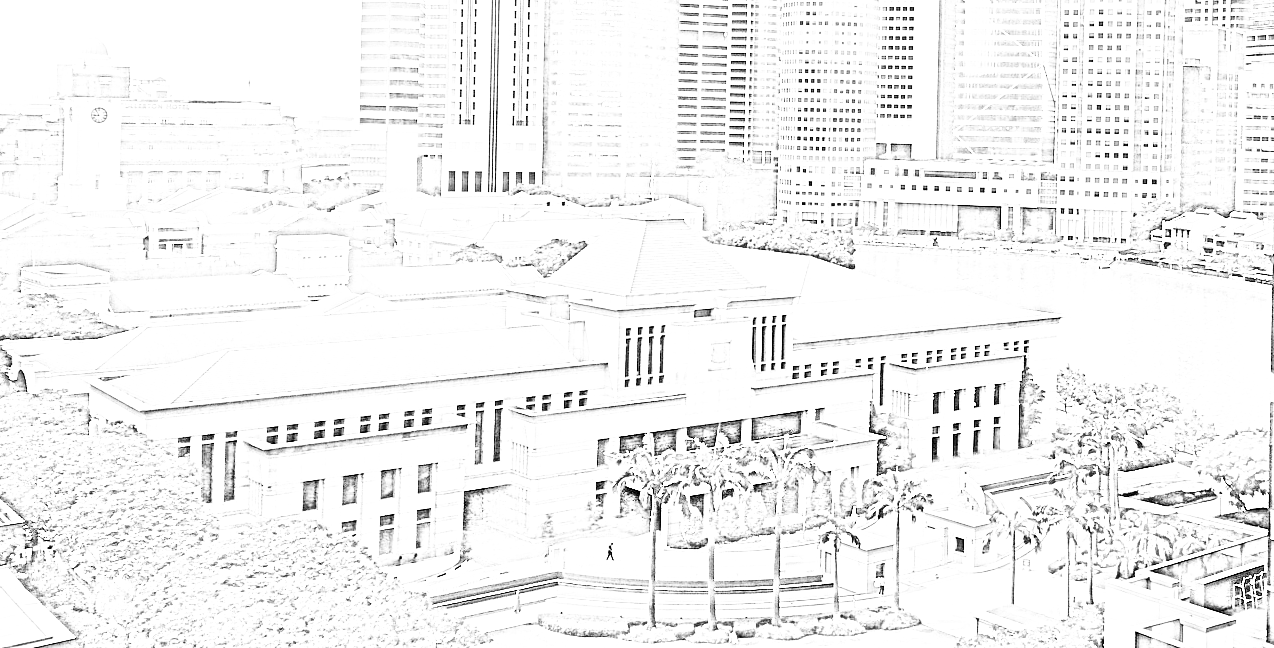
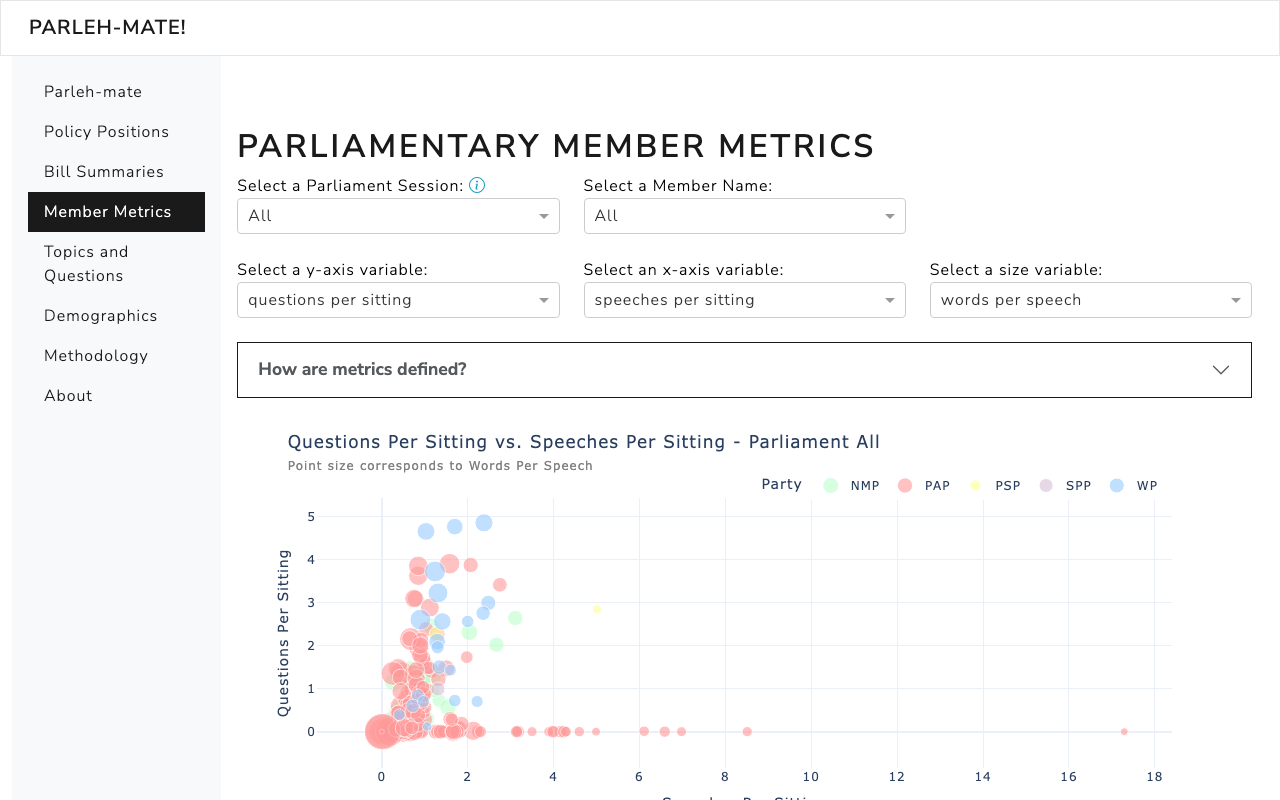
feat(images): use real Par-leh-Mate app screenshots for the project and talk cards

diff --git a/_speaking/singapore-parliament-speeches.md b/_speaking/singapore-parliament-speeches.md
@@ -1,7 +1,8 @@
 ---
 layout: project
 title: Building a Structured Dataset of Singapore's Parliamentary Speeches
-image: https://img.youtube.com/vi/QHS05Iafsqo/maxresdefault.jpg
+image: /assets/images/talks/par-leh-mate-topics.png
+image_alt: The Topics and Questions page of Par-leh-Mate, with stacked bar charts of speeches by topic and questions by ministry, coloured by party
 category: MDS Fest 3.0
 video: https://www.youtube.com/watch?v=QHS05Iafsqo
 tags:

diff --git a/_projects/singapore-parliament-speeches.md b/_projects/singapore-parliament-speeches.md
@@ -2,6 +2,7 @@
 layout: project
 title: Singapore Parliament Speeches
 image: "/assets/images/projects/parlehmate.png"
+image_alt: The Member Metrics page of Par-leh-Mate, a bubble chart of questions and speeches per sitting for each MP, coloured by party
 category: Data Pipeline
 featured: true
 tags:
